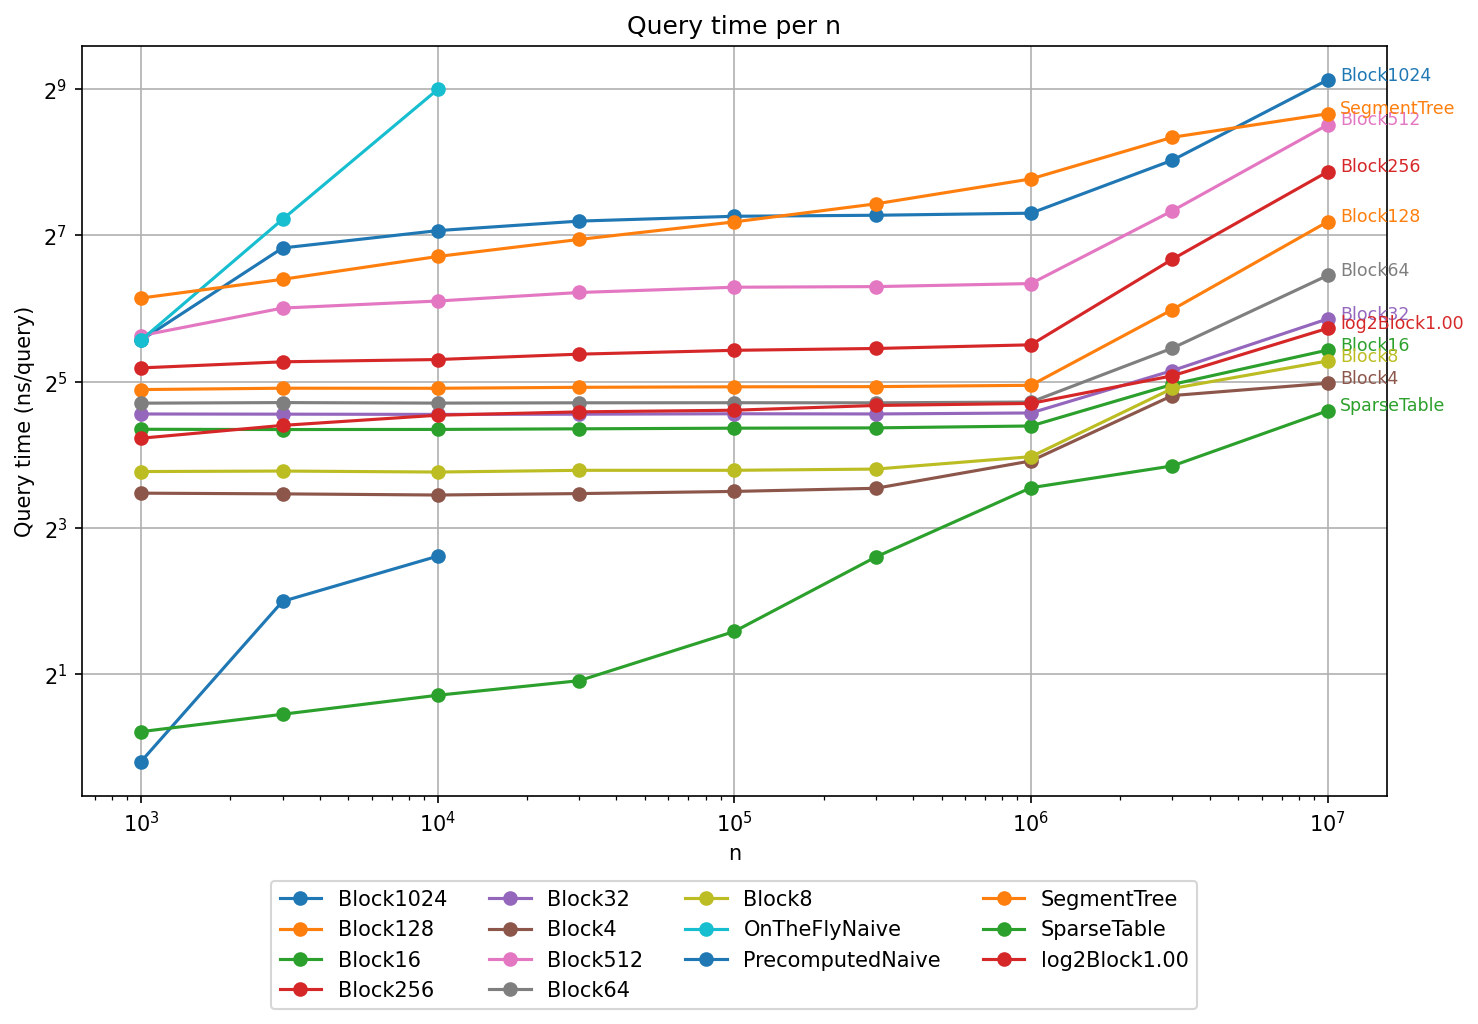
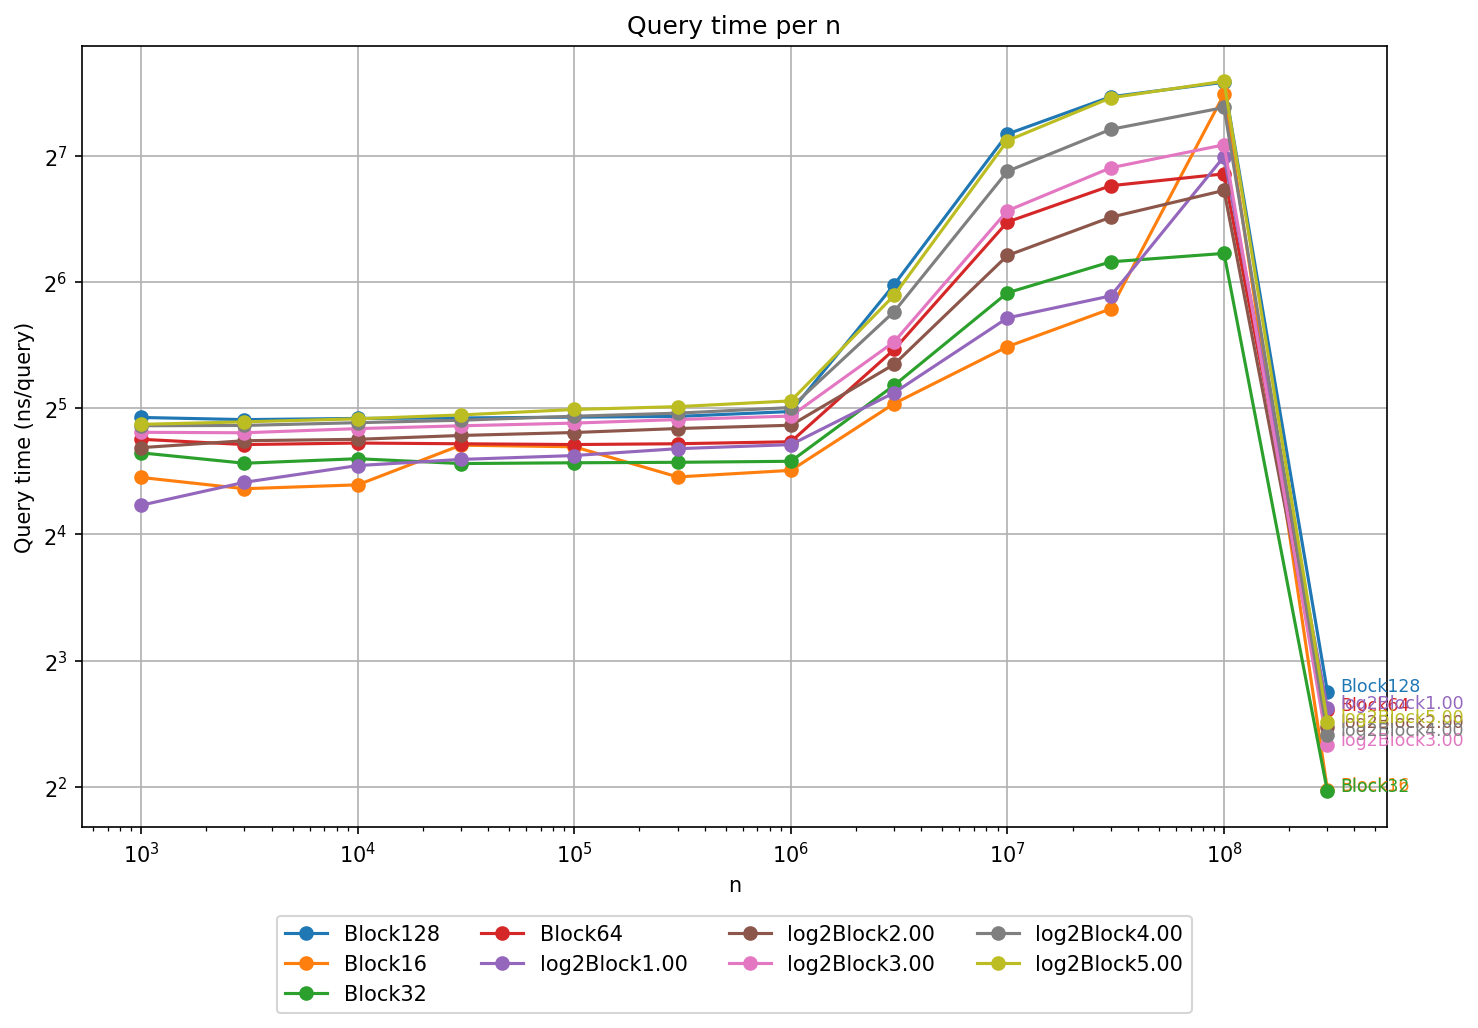
getting somewhere

diff --git a/plot.py b/plot.py
@@ -3,6 +3,7 @@
 import os
 import matplotlib.pyplot as plt
 import pandas as pd
+import numpy as np
 
 os.makedirs("plots", exist_ok=True)
 
@@ -100,6 +101,45 @@ ax.set_title(f"Space-time tradeoff (n={max_n})")
 ax.legend(loc="upper center", bbox_to_anchor=(0.5, -0.1), ncol=4)
 fig.tight_layout()
 fig.savefig("plots/space_time_tradeoff.png", dpi=150, bbox_inches="tight")
+plt.close(fig)
+
+# Plot 4: space-time tradeoff across multiple n (small multiples)
+# Shows how the Pareto frontier moves with n -- this is the key evidence for
+# whether the C*log(n) choice is actually earning its keep at realistic scales,
+# or whether a fixed block size dominates throughout the tested range.
+all_ns = sorted(df["n"].unique())
+idx = np.linspace(0, len(all_ns) - 1, 6).round().astype(int)
+picked_ns = [all_ns[i] for i in sorted(set(idx))]
+
+ncols = 3
+nrows = -(-len(picked_ns) // ncols)
+fig, axes = plt.subplots(nrows, ncols, figsize=(5 * ncols, 4.5 * nrows))
+axes = axes.flatten()
+
+for ax, n_val in zip(axes, picked_ns):
+    sub = df[df["n"] == n_val]
+    for _, r in sub.iterrows():
+        ax.scatter(r["space"], r["time"], color=colors[r["name"]], zorder=3, s=30)
+        ax.annotate(
+            r["name"],
+            (r["space"], r["time"]),
+            textcoords="offset points",
+            xytext=(4, 3),
+            fontsize="x-small",
+            color=colors[r["name"]],
+        )
+    ax.set_xscale("log", base=2)
+    ax.set_yscale("log", base=2)
+    ax.set_title(f"n = {n_val:,}", fontsize="medium")
+    ax.set_xlabel("Space (bits/element)")
+    ax.set_ylabel("Query time (ns/query)")
+
+for ax in axes[len(picked_ns) :]:
+    ax.axis("off")
+
+fig.suptitle("Space-time tradeoff across n (small multiples)", fontsize=14)
+fig.tight_layout(rect=[0, 0, 1, 0.97])
+fig.savefig("plots/space_time_tradeoff_by_n.png", dpi=150, bbox_inches="tight")
 plt.close(fig)
 
 print("Saved plots/query_time.png, plots/space.png, plots/space_time_tradeoff.png")

diff --git a/rmq-cpp/main.cpp b/rmq-cpp/main.cpp
@@ -1142,22 +1142,27 @@ int main(int argc, char *argv[])
 	{
 		/*
 
-
-		*/
 		bench<OnTheFlyNaive>(input);
 		bench<PrecomputedNaive>(input);
 		bench<SparseTable>(input);
 		bench<SegmentTree>(input);
-		bench<Blocks<4>>(input);
-		bench<Blocks<8>>(input);
+
+		*/
+
 		bench<Blocks<16>>(input);
 		bench<Blocks<32>>(input);
 		bench<Blocks<64>>(input);
 		bench<Blocks<128>>(input);
-		bench<Blocks<256>>(input);
-		bench<Blocks<512>>(input);
-		bench<Blocks<1024>>(input);
-		bench<AdaptiveBlocks<100>>(input); // C = 1.0 * log2(n)
+
+		bench<AdaptiveBlocks<100>>(input);
+
+		bench<AdaptiveBlocks<200>>(input);
+
+		bench<AdaptiveBlocks<300>>(input);
+
+		bench<AdaptiveBlocks<400>>(input);
+
+		bench<AdaptiveBlocks<500>>(input);
 
 		/*
 
